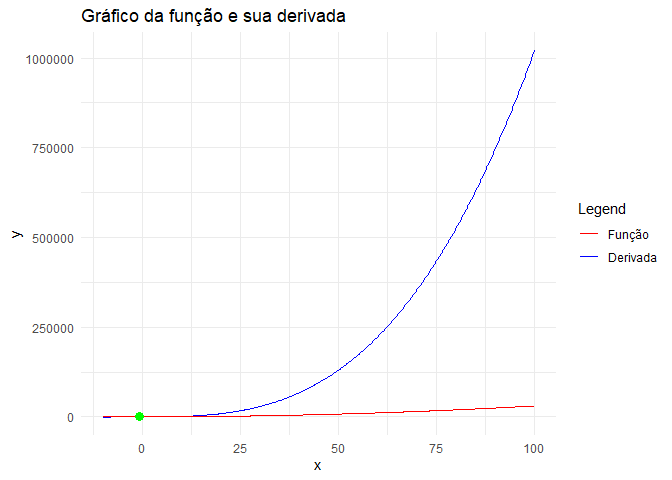
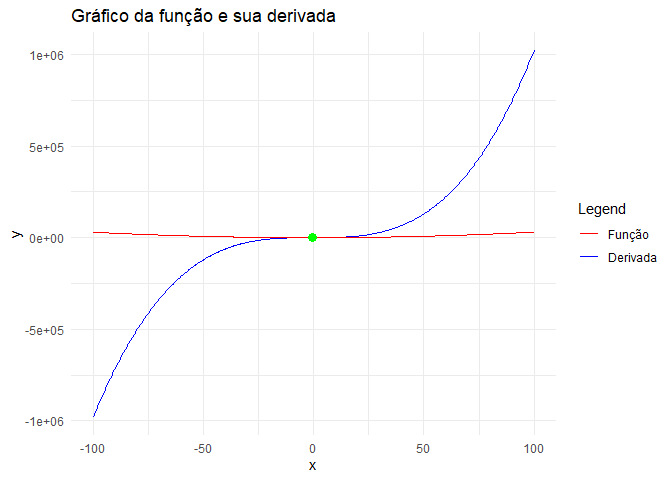
Testando os limites do código feito. Agora que descobri que o geogebra também pode calcular a derivada, consigo comparar muito mais facilmentte os resultados obtidos.

diff --git a/derivadas.html b/derivadas.html
@@ -371,7 +371,7 @@ derivada &lt;- Deriv(f, &quot;x&quot;)
 derivada</code></pre>
 <pre><code>## function (x) 
 ## 1 + x * (3 * x + 4)</code></pre>
-<pre class="r"><code>x_vals &lt;- seq(-10, 100, length.out = 500) # Pontos que serão plotados no gráfico!!!!! varia para diferentes funções
+<pre class="r"><code>x_vals &lt;- seq(-100, 100, length.out = 500) # Pontos que serão plotados no gráfico!!!!! varia para diferentes funções
 
 # Calcula os valores das funções e derivadas para os valores de x
 f_vals &lt;- f(x_vals)
@@ -380,13 +380,9 @@ derivada_vals &lt;- eval(derivada(x_vals))
 # Valores de X com derivada igual a zero
 
 derivada_em_x &lt;- function(x) eval(derivada(x))
-zeros_derivada &lt;- optimize(derivada_em_x, c(-3, 1))
-zeros_derivada</code></pre>
-<pre><code>## $minimum
-## [1] -0.6666667
-## 
-## $objective
-## [1] -0.3333333</code></pre>
+zeros_derivada &lt;- optimize(derivada_em_x, c(-100, 100), maximum = FALSE)
+zeros_derivada$minimum</code></pre>
+<pre><code>## [1] -0.6666667</code></pre>
 <pre class="r"><code>#zeros_derivada &lt;- uniroot(derivada_em_x, c(-3, -1))
 #zeros_derivada$root
 
@@ -409,7 +405,7 @@ grafico &lt;- ggplot(dados, aes(x)) +
 
 # Exibe o gráfico
 print(grafico)</code></pre>
[2 lines of base64/hex data omitted]
 
 
 

diff --git a/derivadas.md b/derivadas.md
@@ -43,7 +43,7 @@ derivada
 ```
 
 ```r
-x_vals <- seq(-10, 100, length.out = 500) # Pontos que serão plotados no gráfico!!!!! varia para diferentes funções
+x_vals <- seq(-100, 100, length.out = 500) # Pontos que serão plotados no gráfico!!!!! varia para diferentes funções
 
 # Calcula os valores das funções e derivadas para os valores de x
 f_vals <- f(x_vals)
@@ -52,16 +52,12 @@ derivada_vals <- eval(derivada(x_vals))
 # Valores de X com derivada igual a zero
 
 derivada_em_x <- function(x) eval(derivada(x))
-zeros_derivada <- optimize(derivada_em_x, c(-3, 1))
-zeros_derivada
+zeros_derivada <- optimize(derivada_em_x, c(-100, 100), maximum = FALSE)
+zeros_derivada$minimum
 ```
 
 ```
-## $minimum
 ## [1] -0.6666667
-## 
-## $objective
-## [1] -0.3333333
 ```
 
 ```r
